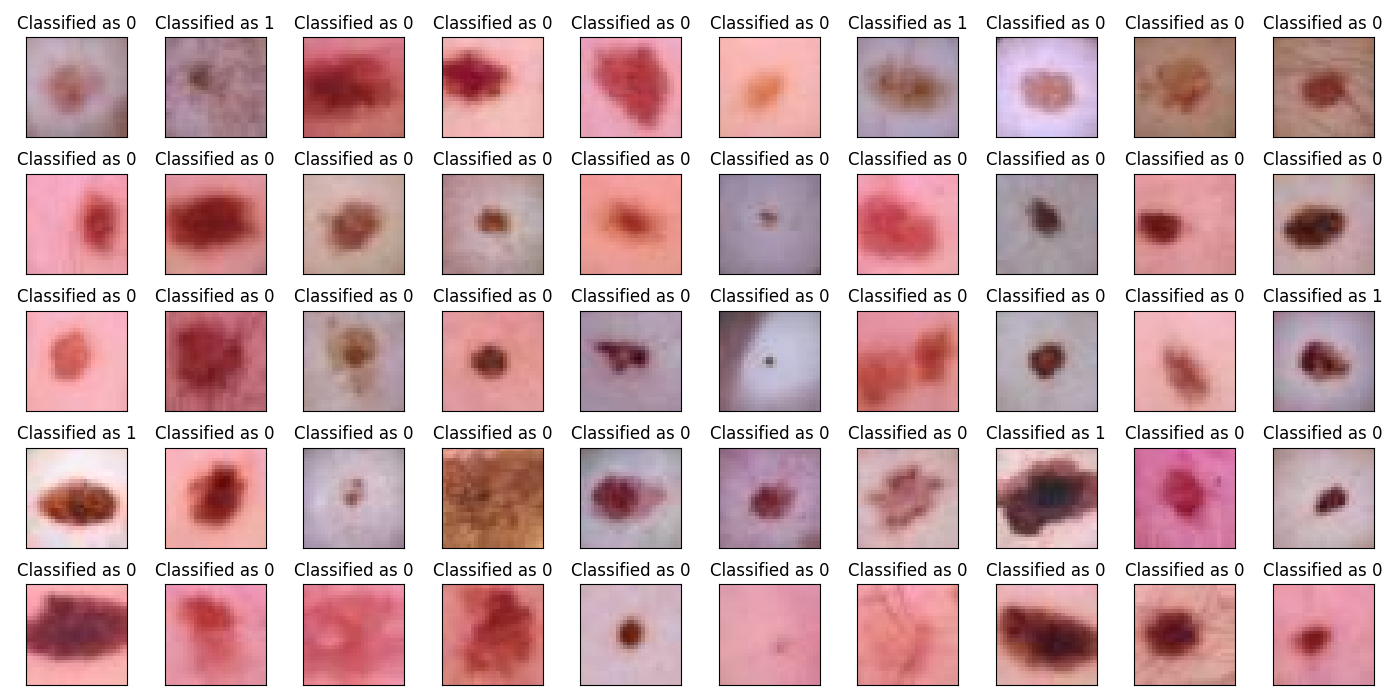
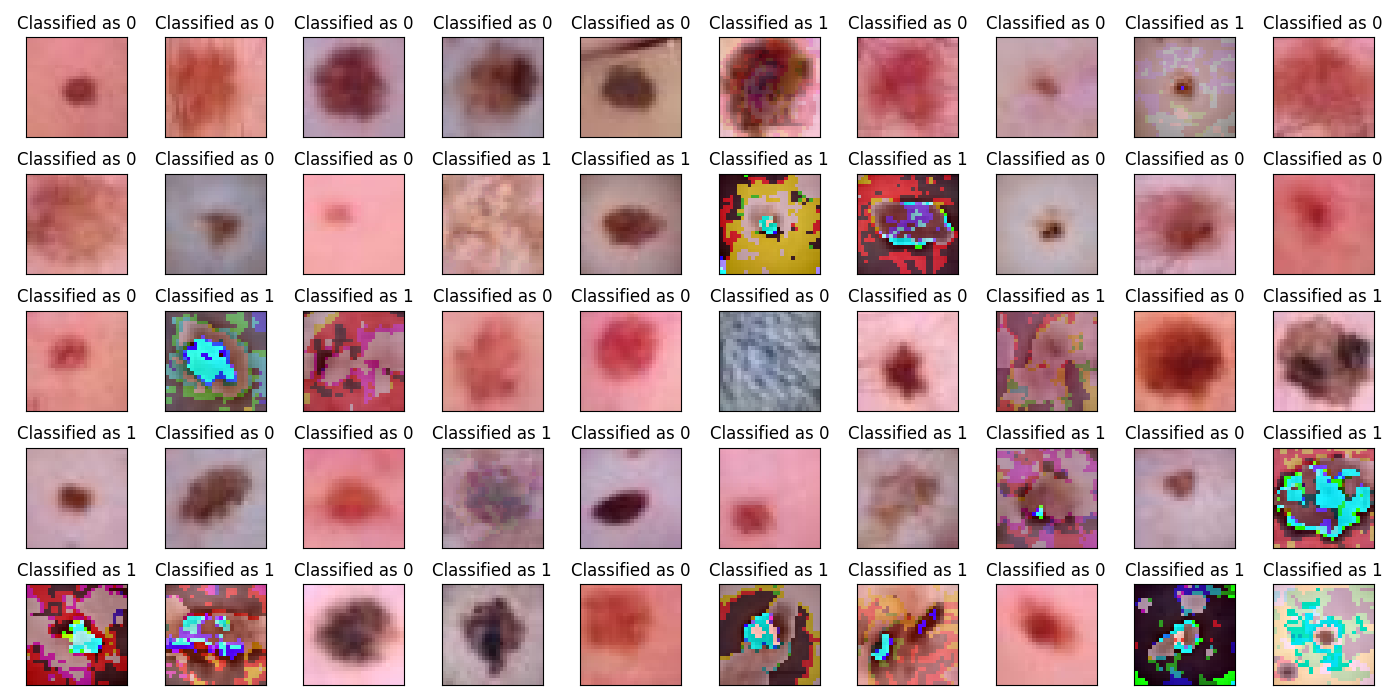
add seeds to pixel aug and removed validation

diff --git a/exercise3/exercise3_cnn_pytorch.py b/exercise3/exercise3_cnn_pytorch.py
@@ -3,6 +3,7 @@ import torch.nn as nn
 import torch.nn.functional as F
 from torch.utils.data import DataLoader,Dataset
 import numpy as np
+from matplotlib import pyplot as plt
 from utils import *
 from sklearn.model_selection import train_test_split
 from sklearn.metrics import balanced_accuracy_score
@@ -21,7 +22,7 @@ y=np.load("ytrain_Classification1.npy") #.reshape(X.shape[0],1)
 #Pre processing:
 X_train, X_test, y_train, y_test = train_test_split(X, y, test_size=0.2, random_state=1) #0.8 - 0.2 
 
-X_train, X_val, y_train, y_val = train_test_split(X_train, y_train, test_size=0.25, random_state=1) # 0.25 x 0.8 = 0.2
+# X_train, X_val, y_train, y_val = train_test_split(X_train, y_train, test_size=0.25, random_state=1) # 0.25 x 0.8 = 0.2
 
 print("Split: Y","N_examples:",len(y),"Class 0:",len(y[y==0]),"Class 1:",len(y[y==1]),"Ratio:",len(y[y==0])/len(y[y==1]))
 print("Split: Y_train",len(y_train),"Class 0:",len(y_train[y_train==0]),"Class 1:",len(y_train[y_train==1]),"Ratio:",len(y_train[y_train==0])/len(y_train[y_train==1]))
@@ -60,7 +61,7 @@ class CNN(nn.Module):
         return x
     
 class FFNDataset(Dataset):
-    def __init__(self, X_array,y_array,mode=None,oversampling=False,augmentation=False):
+    def __init__(self, X_array,y_array,mode=None,oversampling=False,augmentation=False,std=0.05,th=0.3):
         if mode=="train":
             if oversampling:
                 print("Using Oversampling")
@@ -68,10 +69,7 @@ class FFNDataset(Dataset):
                 X_array,y_array=sm.fit_resample(X_array,y_array)
             elif augmentation:
                 print("Using Augmentation")
-                #X_array,y_array=self_augmentation(X_array,y_array)
-                
-                #X_array,y_array=self_augmentation(X_array,y_array,shift_n=1)
-                X_array,y_array=self_augmentation_rotate_flip(X_array,y_array)
+                X_array,y_array=self_augmentation_hue(X_array,y_array,std,th)
                 print(X_array.shape)
         self.X=torch.tensor(X_array,dtype=torch.float32).reshape(X_array.shape[0],3,28,28)
         self.y=torch.tensor(y_array,dtype=torch.float32).long()
@@ -86,16 +84,20 @@ def train_loop(dataloader, model, loss_fn, optimizer):
     # Set the model to training mode - important for batch normalization and dropout layers
     # Unnecessary in this situation but added for best practices
     model.train()
+    num_batches = len(dataloader)
+    train_loss=0
     for batch, (X, y) in enumerate(dataloader):
         # Compute prediction and loss
         pred = model(X)
         loss = loss_fn(pred, y)
+        train_loss+=loss.item()
         # Backpropagation
         loss.backward() #computed the loss for every parameter
         optimizer.step() #updates the parameters
         optimizer.zero_grad() #resets the gradients
-    loss=loss.item()
-    print(f"Training loss: {loss:>7f}")
+    train_loss /= num_batches
+    print(f"Avg train loss: {train_loss:>7f}")
+    return train_loss
 
 def test_loop(dataloader, model, loss_fn):
     # Set the model to evaluation mode - important for batch normalization and dropout layers
@@ -128,40 +130,54 @@ def test_loop(dataloader, model, loss_fn):
     balanced_acc = 1/2*(recall+specificity)
     test_loss /= num_batches
     print(f"Recall:{(100*recall):>0.1f}%, Specificity:{(100*specificity):>0.1f}%, Balanced Accuracy: {(100*balanced_acc):>0.1f}%,  Avg loss: {test_loss:>8f} \n")
-    return balanced_acc
+    return test_loss,recall,specificity,balanced_acc
 
 #flipping images vertically or creating mirrored images
 model=CNN()
 learning_rate = 1e-3
 batch_size = 128
-epochs = 15
+epochs = 20
 weight_decay=0.01
-loss_fn = nn.CrossEntropyLoss()
+loss_fn = nn.NLLLoss() #NLLoss
 optimizer = torch.optim.AdamW(model.parameters(), lr=learning_rate,weight_decay=weight_decay)
-
+std=0.2
+th=1.0
 #Loads the data in a dataloader to control the batch and pre-processing easier
-train_dataloader = DataLoader(FFNDataset(X_train,y_train,mode="train",oversampling=False,augmentation=True), batch_size=batch_size,shuffle=True)
-val_dataloader = DataLoader(FFNDataset(X_val,y_val), batch_size=batch_size,shuffle=True)
-test_loss, correct = 0, 0
+train_dataloader = DataLoader(FFNDataset(X_train,y_train,mode="train",oversampling=False,augmentation=True,std=std,th=th), batch_size=batch_size,shuffle=True)
+# val_dataloader = DataLoader(FFNDataset(X_val,y_val), batch_size=batch_size,shuffle=True)
 
-print("Tuning Hyperparameters with Validation Set")
+
+
+print("Test Results on X_test")
+test_dataloader = DataLoader(FFNDataset(X_test,y_test), batch_size=batch_size)
+
+train_loss_list=[]
+test_loss_list=[]
+b_acc_list=[]
+specifity_list=[]
+recall_list=[]
+
 for t in range(epochs):
     print(f"Epoch {t+1}\n-------------------------------")
-    train_loop(train_dataloader, model, loss_fn, optimizer)
+    train_loss_list.append(train_loop(train_dataloader, model, loss_fn, optimizer))
     print(f"Validation Results:")
-    test_loop(val_dataloader, model, loss_fn)
-
+    avg_loss,recall,specificity,balanced_acc=test_loop(test_dataloader, model, loss_fn)
+    test_loss_list.append(avg_loss)
+    b_acc_list.append(round(100*balanced_acc,2))
+    specifity_list.append(round(100*specificity,2))
+    recall_list.append(round(100*recall,2))
 print("Done Traning!")
 
-model=CNN()
-optimizer = torch.optim.AdamW(model.parameters(), lr=learning_rate,weight_decay=weight_decay)
-print("Test Results on X_test")
-X_train=np.vstack((X_train,X_val))
-y_train=np.concatenate((y_train,y_val))
-train_dataloader = DataLoader(FFNDataset(X_train,y_train,mode="train",oversampling=False,augmentation=True), batch_size=batch_size,shuffle=True)
-test_dataloader = DataLoader(FFNDataset(X_test,y_test), batch_size=batch_size)
-for t in range(epochs):
-    print(f"Epoch {t+1}\n-------------------------------")
-    train_loop(train_dataloader, model, loss_fn, optimizer)
-    print(f"Validation Results:")
-test_loop(test_dataloader, model, loss_fn)
+plt.figure(figsize=(10, 6))
+plt.plot(train_loss_list, label='train_loss')
+plt.plot(test_loss_list,label='test_loss')
+plt.legend()
+augmentation=f"hue_std_{std}_th_{th}"
+#augmentation="shift_n_2_rot_k_2"
+plt.savefig(f"graphs/lr_{learning_rate}_weight_decay_{weight_decay}_{augmentation}.png")
+plt.figure(figsize=(10, 6)) 
+plt.plot(b_acc_list, label='Balanced Accuracy')
+plt.plot(specifity_list,label='Specifity')
+plt.plot(recall_list,label='Recall')
+plt.legend()
+plt.savefig(f"graphs/max_bacc_{max(b_acc_list)}_loss_{round(test_loss_list[b_acc_list.index(max(b_acc_list))],3)}_epochs_{b_acc_list.index(max(b_acc_list))+1}_lr_{learning_rate}_weigth_decay_{weight_decay}_{augmentation}.png")

diff --git a/exercise3/utils.py b/exercise3/utils.py
@@ -5,6 +5,7 @@ import pandas as pd
 import matplotlib.pyplot as plt
 import colorsys
 
+#pytorch_lightning
 
 def self_augmentation_rotate_flip(X_train,y_train):
     X_train=X_train.reshape(X_train.shape[0],28,28,3)
@@ -14,7 +15,7 @@ def self_augmentation_rotate_flip(X_train,y_train):
     X_train_pos_extra=[]
     for image in X_train_pos:
         #Rotation to 90 and 180
-        for k in [1,2,2]:
+        for k in [1,2,3]:
             X_train_pos_extra.append(np.rot90(image,k=k))
         for axis in [0,1]:
             X_train_pos_extra.append(np.flip(image,axis=axis))
@@ -38,7 +39,9 @@ def self_augmentation_shift(X_train,y_train,shift_n=2):
         for axis in [0,1]:
             for shift in [-shift_n,shift_n]:
                 X_train_pos_extra.append(np.roll(image,shift=shift,axis=axis))
-        X_train_pos_extra.append(np.flip(image,axis=0))
+        #X_train_pos_extra.append(np.flip(image,axis=1))
+        X_train_pos_extra.append(np.rot90(image,k=2))
+        
     #print(np.array(X_train_pos_extra).shape)
     X_train_pos=np.concatenate((X_train_pos,X_train_pos_extra),axis=0)
     #print(X_train_pos.shape)
@@ -168,6 +171,8 @@ def self_augmentation_merged(X_train,y_train,std,th):
     #Add the classes
     y_train=np.concatenate((np.ones(X_train_pos.shape[0]),np.zeros(X_train_neg.shape[0])))
     return X_train,y_train
+
+
 def self_augmentation_hue(X_train,y_train,std,th):
     X_train=X_train.reshape(X_train.shape[0],28,28,3)
     print("Using Hue")
@@ -177,9 +182,11 @@ def self_augmentation_hue(X_train,y_train,std,th):
 
     #Augment the positive class
     X_train_pos_extra=[]
-    for image in X_train_pos:
+    for i,image in enumerate(X_train_pos):
         #Rotation to 90 and 180
-        for k in np.clip(std*np.random.randn(5),-th,th):
+        np.random.seed(i)
+        distribution=np.random.randn(5)
+        for k in np.clip(std*distribution,-th,th):
             X_train_pos_extra.append(apply_hue(image,k))
     #print(np.array(X_train_pos_extra).shape)
     X_train_pos=np.concatenate((X_train_pos,X_train_pos_extra),axis=0)
@@ -198,8 +205,9 @@ def self_augmentation_contrast(X_train,y_train,std,th):
 
     #Augment the positive class
     X_train_pos_extra=[]
-    for image in X_train_pos:
+    for i,image in enumerate(X_train_pos):
         #Rotation to 90 and 180
+        np.random.seed(i)
         for k in np.clip(std*np.random.randn(5),-th,th):
             X_train_pos_extra.append(apply_contrast(image,k))
     #print(np.array(X_train_pos_extra).shape)
@@ -219,7 +227,9 @@ def self_augmentation_brightness(X_train,y_train,std,th):
 
     #Augment the positive class
     X_train_pos_extra=[]
-    for image in X_train_pos:
+    for i,image in enumerate(X_train_pos):
+        #Rotation to 90 and 180
+        np.random.seed(i)
         #Rotation to 90 and 180
         for k in np.clip(std*np.random.randn(5),-th,th):
             X_train_pos_extra.append(apply_brightness(image,k))
@@ -240,8 +250,8 @@ def self_augmentation_saturation(X_train,y_train,std,th):
 
     #Augment the positive class
     X_train_pos_extra=[]
-    for image in X_train_pos:
-        #Rotation to 90 and 180
+    for i,image in enumerate(X_train_pos):
+        np.random.seed(i)
         for k in np.clip(std*np.random.randn(5),-th,th):
             X_train_pos_extra.append(apply_saturation(image,k))
     #print(np.array(X_train_pos_extra).shape)

diff --git a/exercise3/oversampling_visualization.py b/exercise3/oversampling_visualization.py
@@ -6,7 +6,7 @@ from imblearn.over_sampling import SMOTE,RandomOverSampler,ADASYN, KMeansSMOTE,B
 X=np.load("Xtrain_Classification1.npy")
 y=np.load("ytrain_Classification1.npy")
 sm = ADASYN(random_state=42)
-# X,y=sm.fit_resample(X,y)
+X,y=sm.fit_resample(X,y)
 
 X=X.reshape(X.shape[0],28,28,3)
 choices=sorted(np.arange(0,X.shape[0],1))
